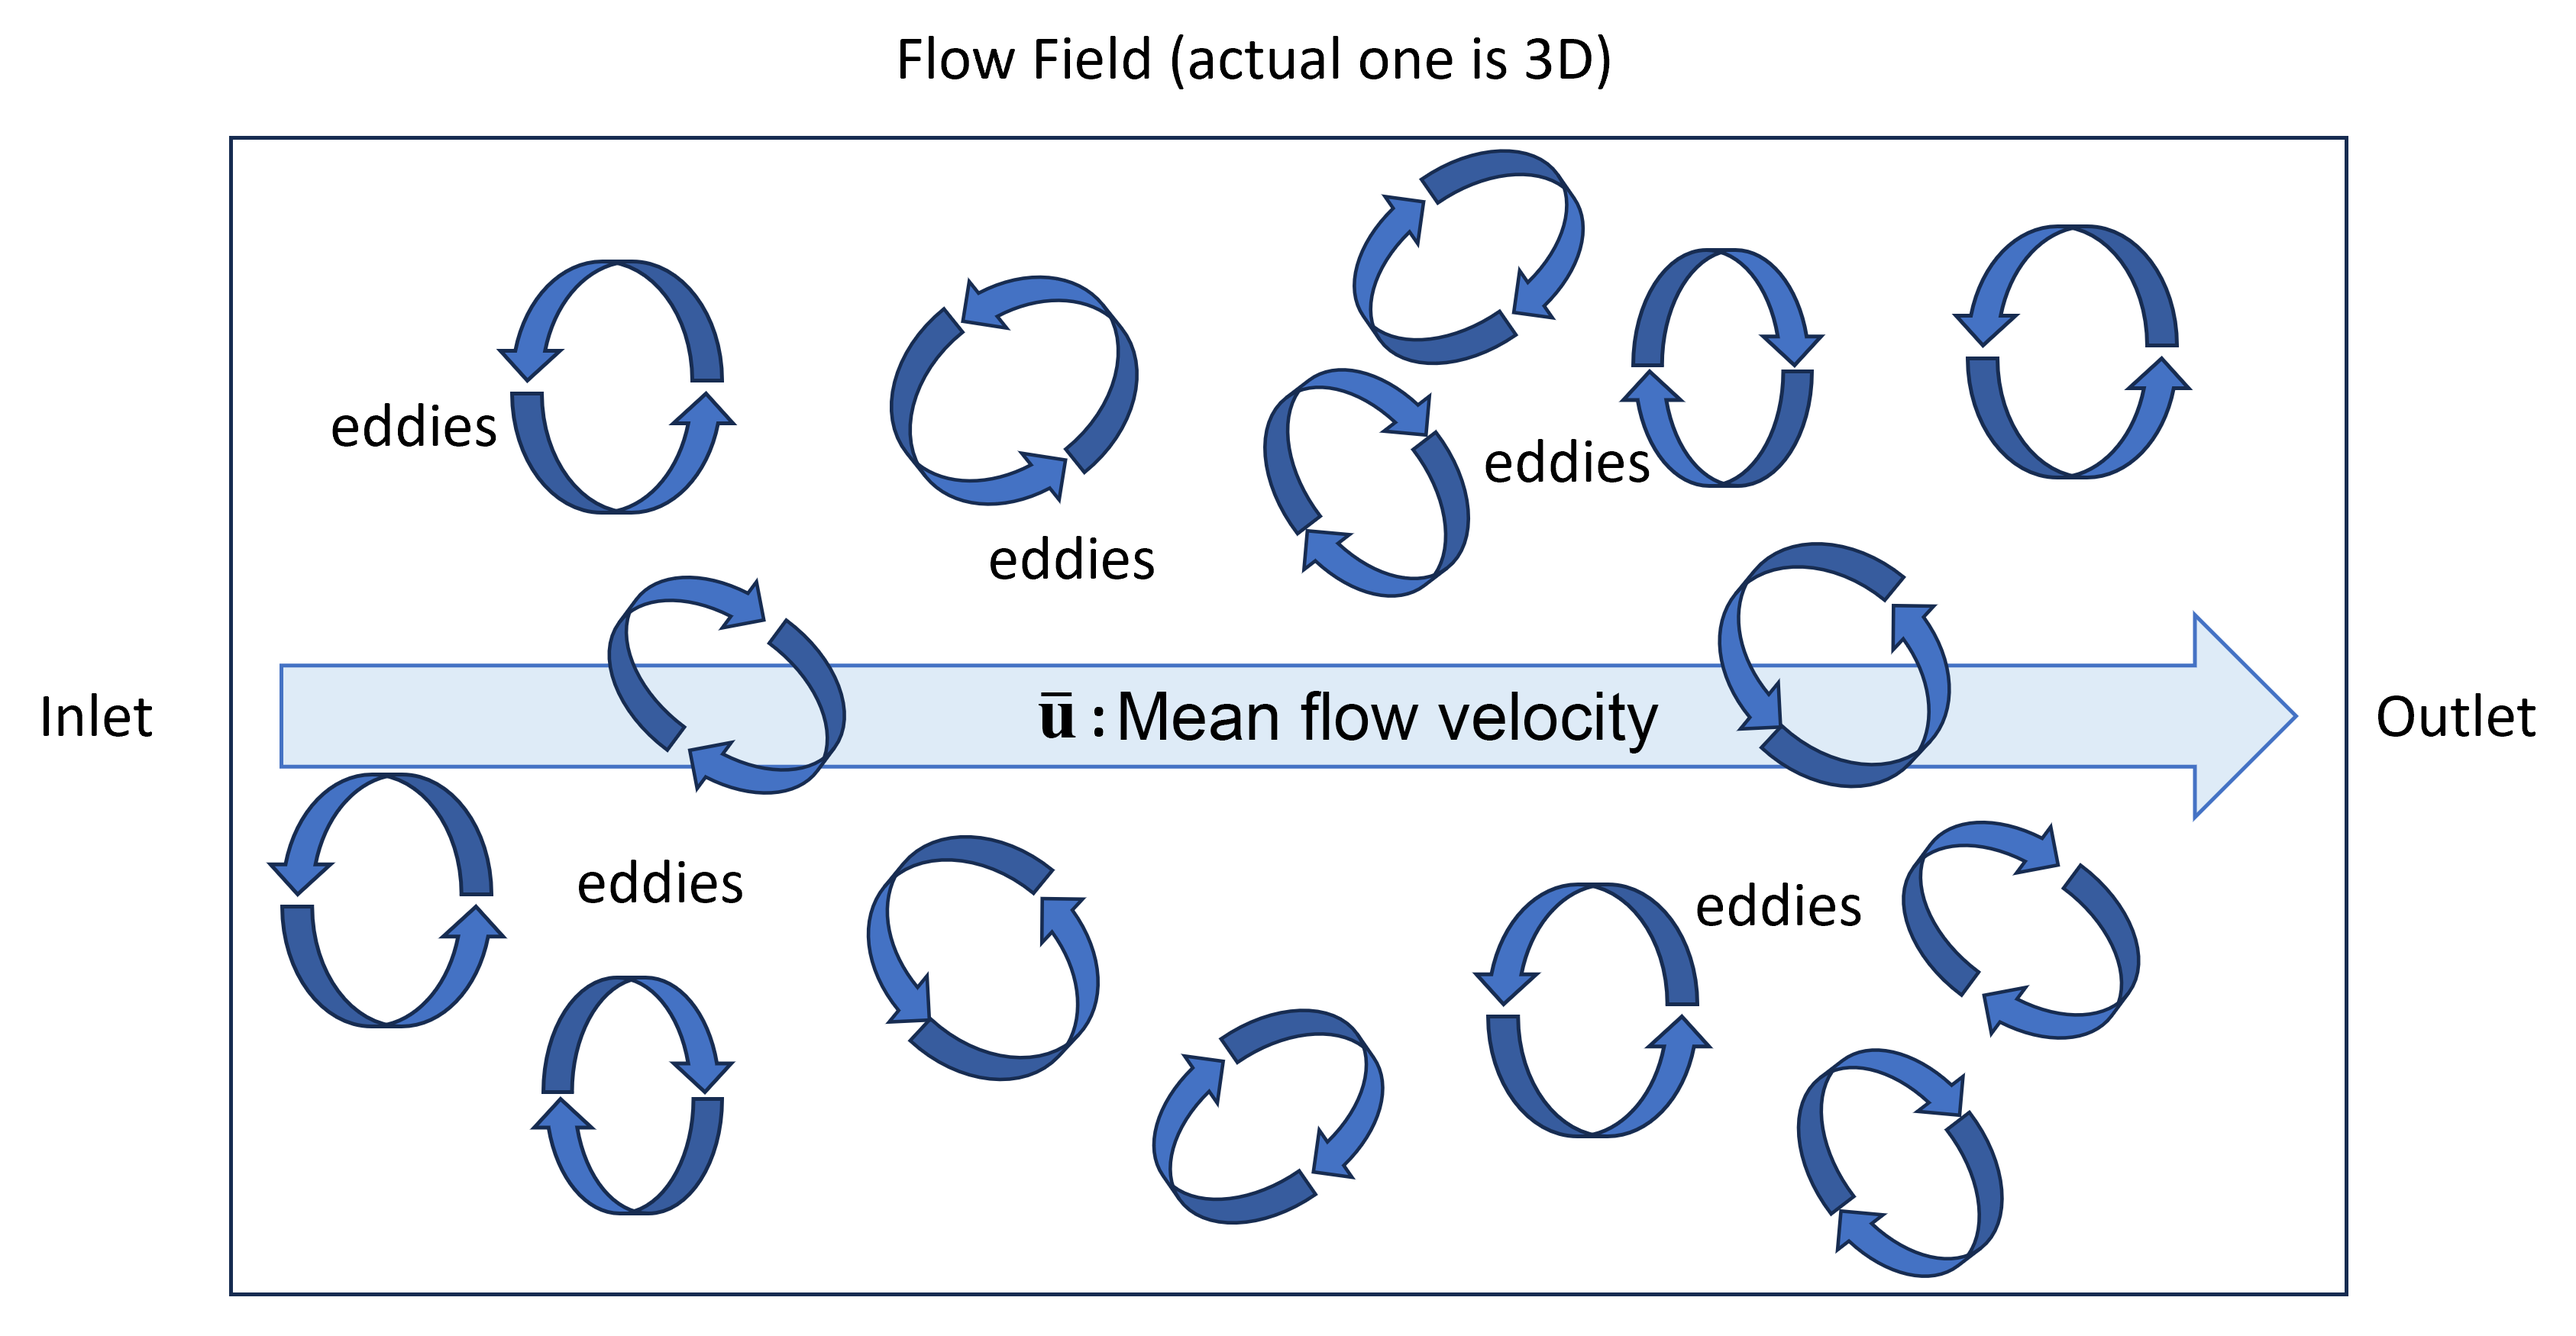
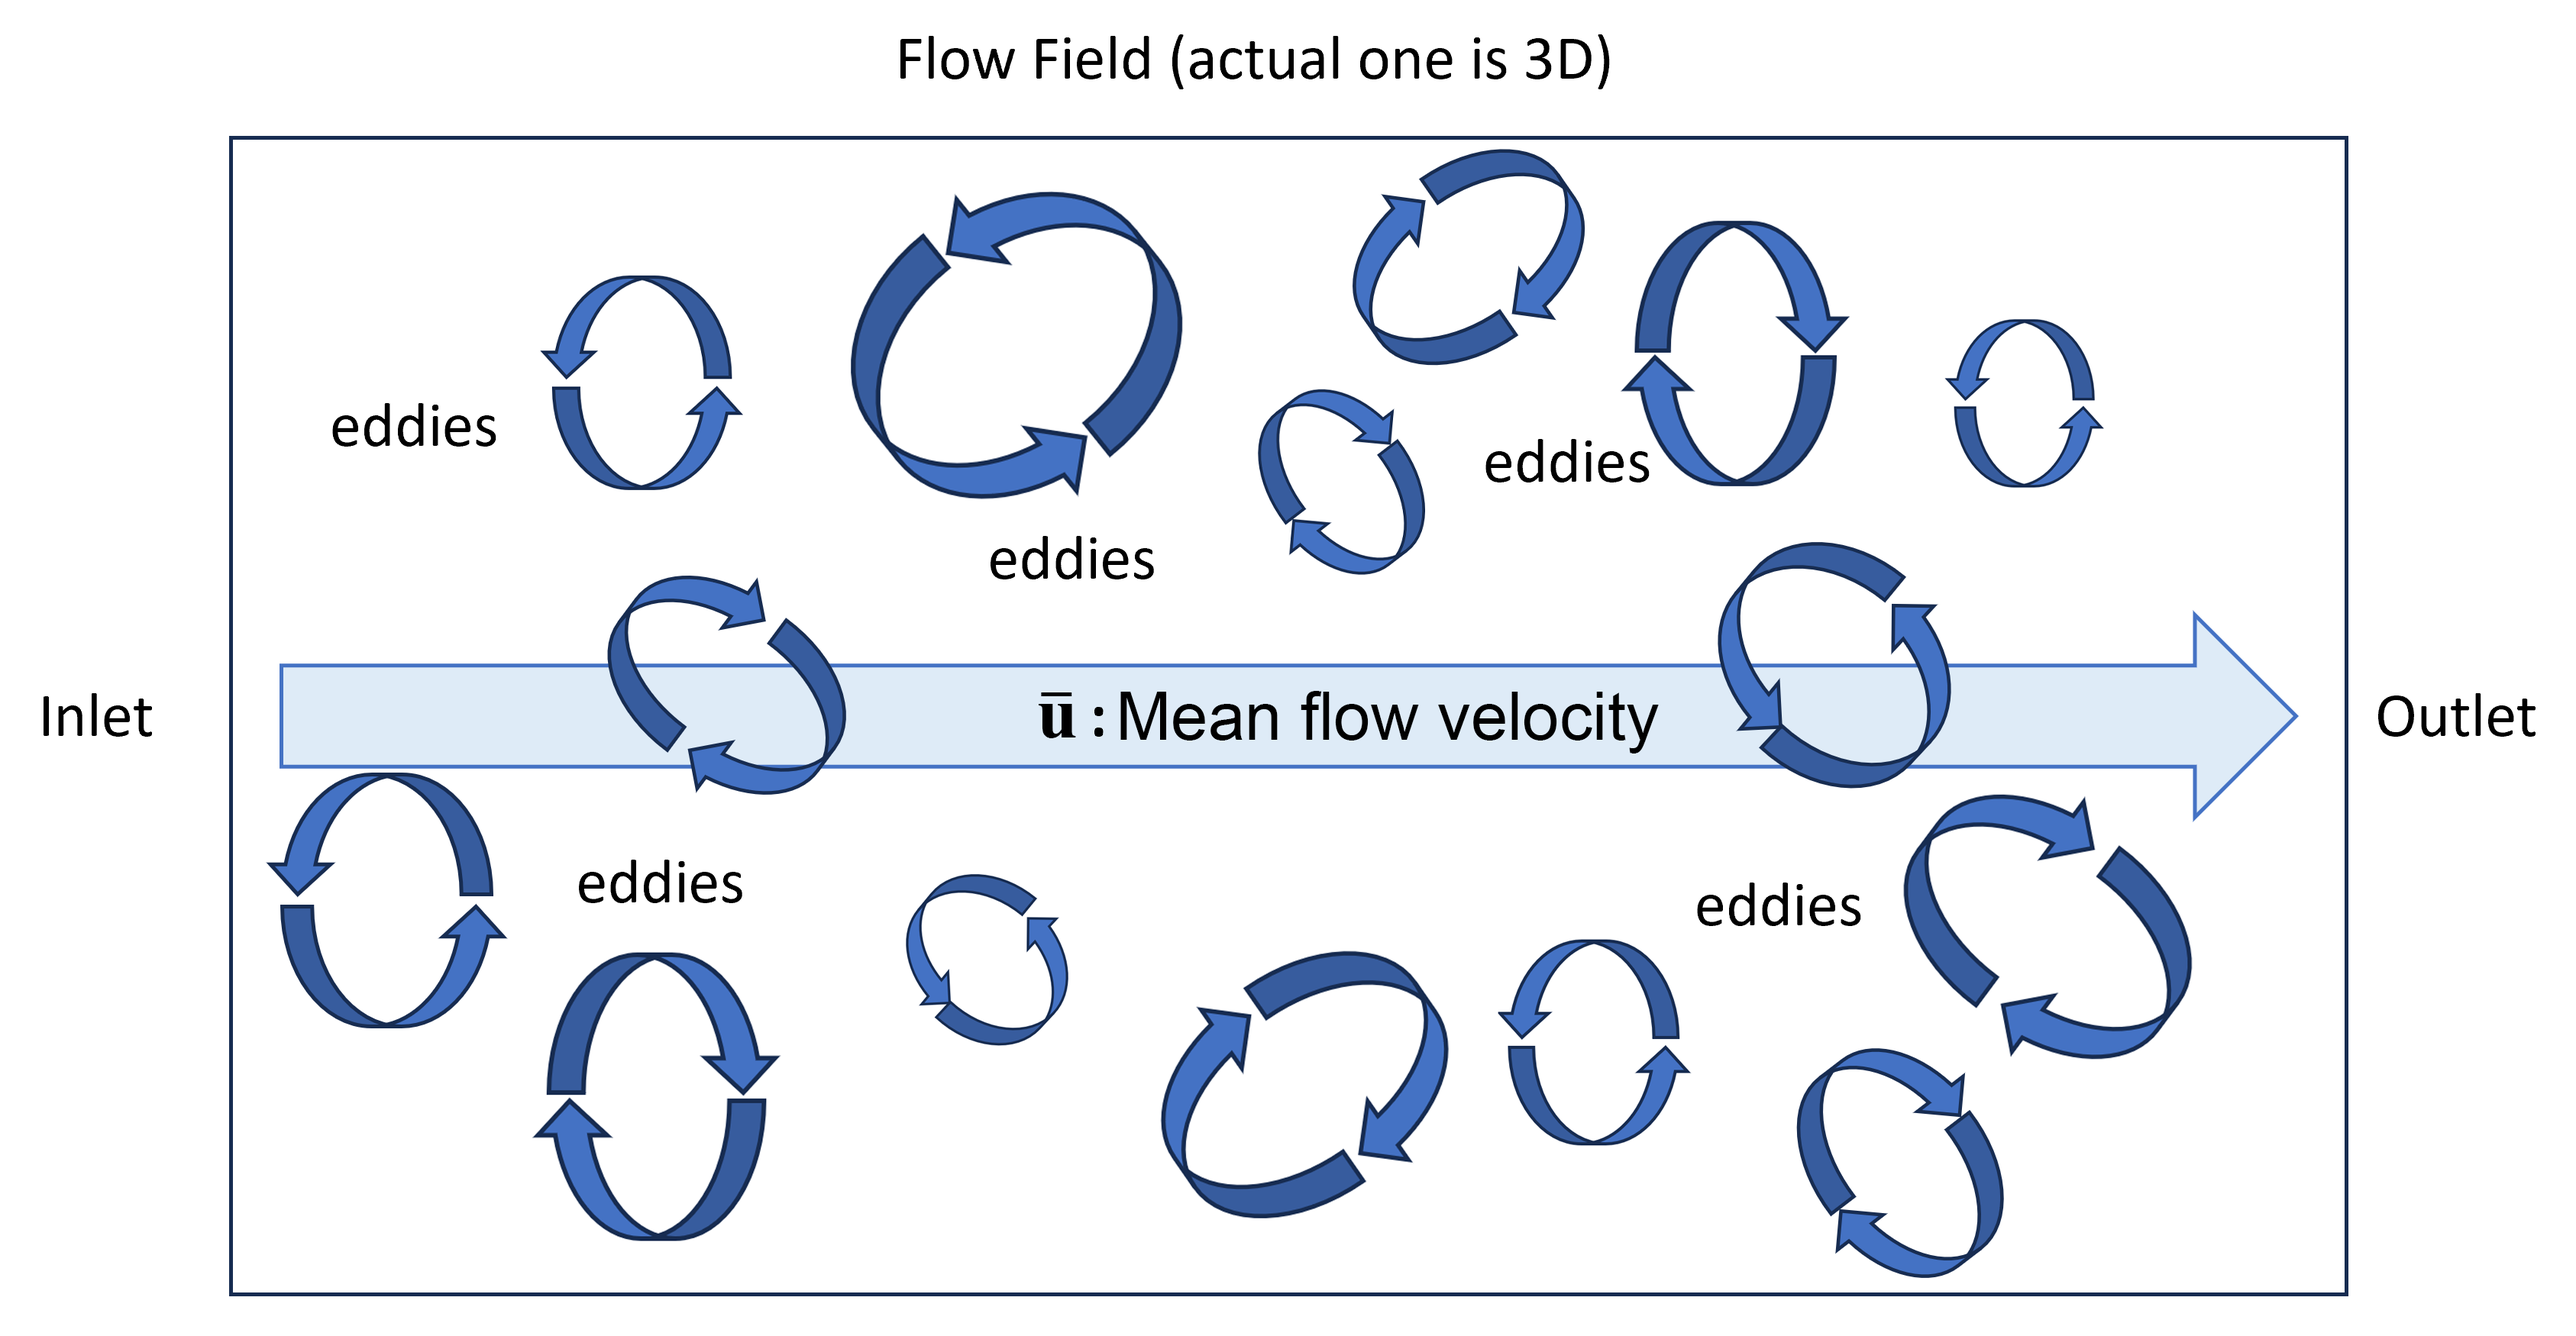
Dr. Tullis suggested fixes Fix #83

diff --git a/paper/paper.md b/paper/paper.md
@@ -54,8 +54,8 @@ To reach such a state, either prior simulations with longer time and larger fiel
 @Poletto:2013 proposed one such method by generating synthetic eddies to mimic a turbulent flow.
 Compared to previous proposals, such as random fluctuations, this method is divergence free and closer to the actual turbulent flow.
 
-`SynthEddy` is an implementation of this method in Python, combined with recent work by Nikita Holyev in this topic. [@Holyev:2024]
-It models turbulent flow fields consisting of synthetic eddies of various sizes and intensities, flowing from inlet to outlet with a uniform or non-uniform mean velocity.
+`SynthEddy` is an implementation of this method in Python, combined with recent work by Holyev in this topic. [@Holyev:2024]
+It models turbulent flow fields consisting of synthetic eddies of various sizes, orientations and intensities, flowing from inlet to outlet with a uniform or non-uniform mean velocity.
 This physical system is shown in \autoref{fig:PS}.
 The user can generate turbulent flow and query the velocity field to be used in both turbulent research and as IC/BC for CFD simulations.
 
